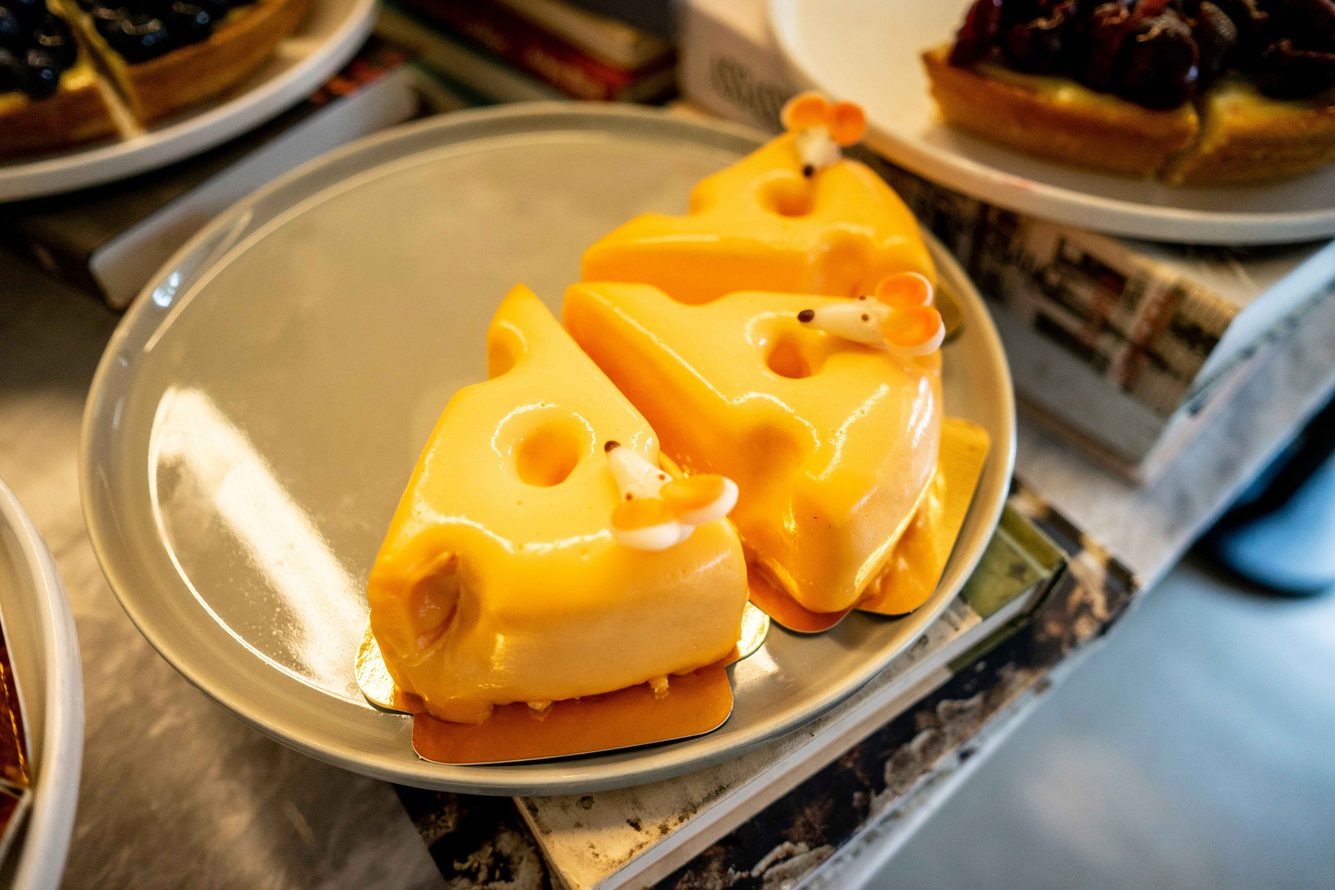
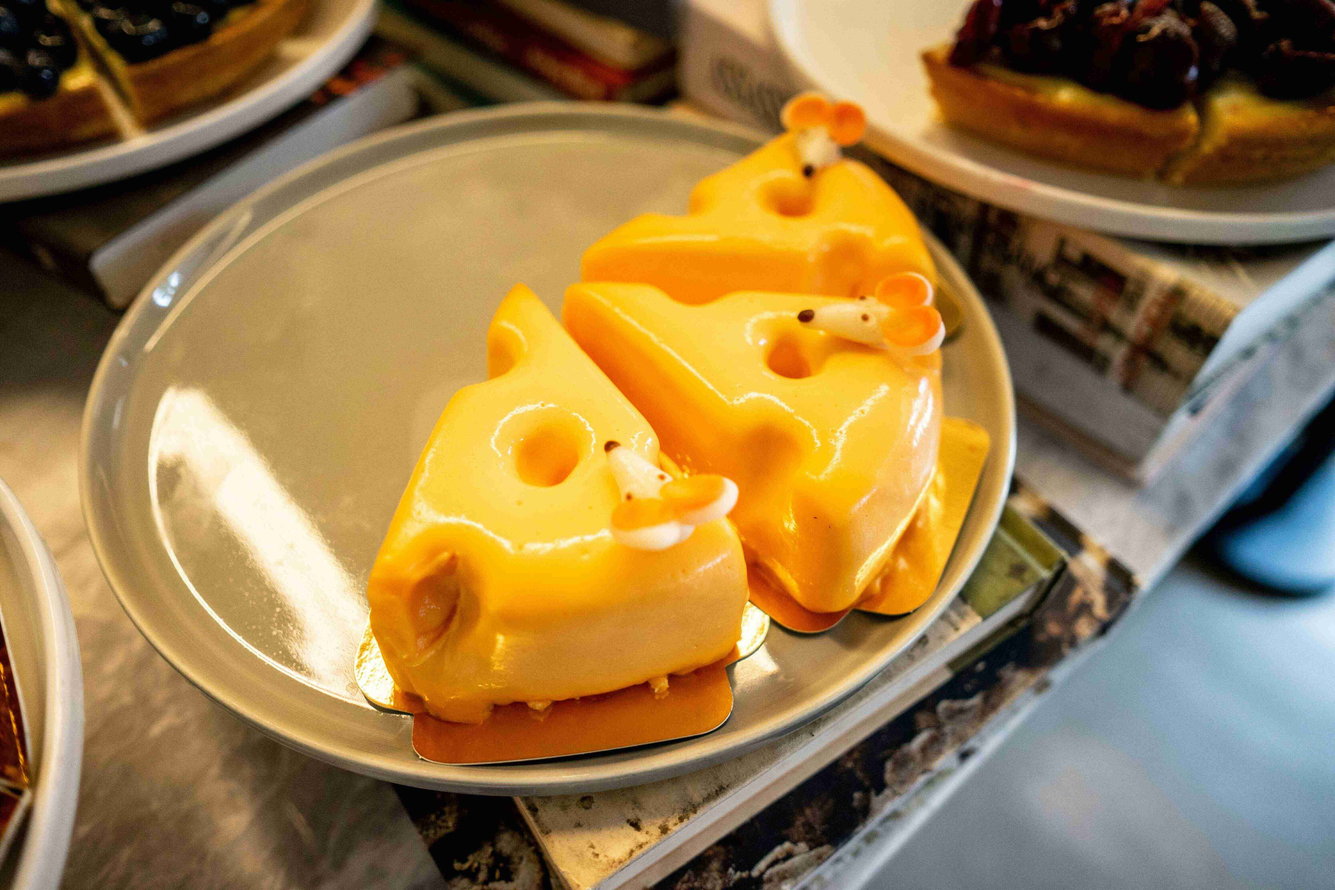
Make nav button works, and compressing the image asset

diff --git a/src/component/Navbar.jsx b/src/component/Navbar.jsx
@@ -1,6 +1,7 @@
 import { useState, useEffect } from "react";
 
-export function Navbar() {
+export function Navbar({navMenuClicked, homeRef, productRef, contactUsRef}) {
+
   const [isOpen, setIsOpen] = useState(false);
   const [isScrolled, setIsScrolled] = useState(false);
 
@@ -15,44 +16,41 @@ export function Navbar() {
 
   return (
     <nav
-      className={`w-full fixed top-0 left-0 z-50 transition-all duration-300 ${
-        isScrolled ? "bg-white shadow-md" : "bg-transparent"
-      }`}
+      className={`w-full fixed top-0 left-0 z-50 transition-all duration-300 ${isScrolled ? "bg-white shadow-md" : "bg-transparent"
+        }`}
     >
       <div className="max-w-7xl mx-auto flex items-center justify-between h-20 px-4">
         {/* Logo */}
         <a
-          className={`font-bold text-[25px] cursor-pointer ${
-            isScrolled ? "text-jetblack" : "text-primaryWhite"
-          }`}
+          className={`font-bold text-[25px] cursor-pointer ${isScrolled ? "text-jetblack" : "text-primaryWhite"
+            }`}
+          href="/"
         >
           Cheesant.
         </a>
 
         {/* Desktop Menu */}
         <div
-          className={`hidden md:flex font-bold items-center ${
-            isScrolled ? "text-jetblack" : "text-primaryWhite"
-          }`}
+          className={`hidden md:flex font-bold items-center ${isScrolled ? "text-jetblack" : "text-primaryWhite"
+            }`}
         >
-          <a href="" className="mx-3">
+          <button onClick={() => {navMenuClicked(homeRef)}} className="mx-3 cursor-pointer">
             Home
-          </a>
-          <a href="" className="mx-3">
+          </button>
+          <button onClick={() => navMenuClicked(productRef)} className="mx-3 cursor-pointer">
             Product
-          </a>
-          <a
-            href=""
-            className={`mx-3 border px-5 py-2 rounded-full transition duration-200
-              ${
-                isScrolled
-                  ? "border-jetblack hover:bg-jetblack hover:text-white"
-                  : "border-primaryWhite hover:bg-primaryWhite hover:text-jetblack"
+          </button>
+          <button
+            onClick={() => navMenuClicked(contactUsRef)}
+            className={`mx-3 border px-5 py-2 rounded-full transition duration-200 cursor-pointer
+              ${isScrolled
+                ? "border-jetblack hover:bg-jetblack hover:text-white"
+                : "border-primaryWhite hover:bg-primaryWhite hover:text-jetblack"
               }
             `}
           >
             Contact Us
-          </a>
+          </button>
         </div>
 
         {/* Mobile Hamburger */}
@@ -61,54 +59,59 @@ export function Navbar() {
           onClick={() => setIsOpen(!isOpen)}
         >
           <span
-            className={`block w-6 h-0.5 transition-transform duration-300 ${
-              isScrolled
+            className={`block w-6 h-0.5 transition-transform duration-300 ${isScrolled
                 ? isOpen
                   ? "bg-jetblack rotate-45 translate-y-1.5"
                   : "bg-jetblack"
                 : isOpen
-                ? "bg-jetblack rotate-45 translate-y-1.5"
-                : "bg-primaryWhite"
-            }`}
+                  ? "bg-jetblack rotate-45 translate-y-1.5"
+                  : "bg-primaryWhite"
+              }`}
           ></span>
           <span
-            className={`block w-6 h-0.5 transition-opacity duration-300 ${
-              isOpen ? "opacity-0" : isScrolled ? "bg-jetblack" : "bg-primaryWhite"
-            }`}
+            className={`block w-6 h-0.5 transition-opacity duration-300 ${isOpen ? "opacity-0" : isScrolled ? "bg-jetblack" : "bg-primaryWhite"
+              }`}
           ></span>
           <span
-            className={`block w-6 h-0.5 transition-transform duration-300 ${
-              isScrolled
+            className={`block w-6 h-0.5 transition-transform duration-300 ${isScrolled
                 ? isOpen
                   ? "bg-jetblack -rotate-45 -translate-y-1.5"
                   : "bg-jetblack"
                 : isOpen
-                ? "bg-jetblack -rotate-45 -translate-y-1.5"
-                : "bg-primaryWhite"
-            }`}
+                  ? "bg-jetblack -rotate-45 -translate-y-1.5"
+                  : "bg-primaryWhite"
+              }`}
           ></span>
         </button>
       </div>
 
       {/* Mobile Menu */}
       <div
-        className={`fixed inset-0 bg-primaryWhite flex flex-col items-center justify-center font-bold text-cocoa transform transition-transform duration-300 ${
-          isOpen ? "translate-x-0" : "translate-x-full"
-        }`}
+        className={`fixed inset-0 bg-primaryWhite flex flex-col items-center justify-center font-bold text-cocoa transform transition-transform duration-300 ${isOpen ? "translate-x-0" : "translate-x-full"
+          }`}
       >
-        <a href="" className="py-4 text-2xl" onClick={() => setIsOpen(false)}>
+        <button  
+        className="py-4 text-2xl cursor-pointer" onClick={() => {
+          setIsOpen(false)
+          navMenuClicked(homeRef)
+          }}>
           Home
-        </a>
-        <a href="" className="py-4 text-2xl" onClick={() => setIsOpen(false)}>
+        </button>
+        <button  className="py-4 text-2xl cursor-pointer" onClick={() => {
+          setIsOpen(false)
+          navMenuClicked(productRef)
+          }}>
           Product
-        </a>
-        <a
-          href=""
-          className="py-2 text-2xl border border-cocoa px-4 rounded-full hover:bg-cocoa hover:text-primaryWhite transition duration-200"
-          onClick={() => setIsOpen(false)}
+        </button>
+        <button
+          className="py-2 text-2xl border border-cocoa px-4 rounded-full hover:bg-cocoa hover:text-primaryWhite transition duration-200 cursor-pointer"
+          onClick={() => {
+            setIsOpen(false)
+            navMenuClicked(contactUsRef)
+          }}
         >
           Contact Us
-        </a>
+        </button>
       </div>
     </nav>
   );

diff --git a/src/component/LandingPage.jsx b/src/component/LandingPage.jsx
@@ -12,17 +12,33 @@ import ctaImage from "../assets/image_cta.png"
 import { FaInstagram as InstagramIcon } from "react-icons/fa6";
 import { FaFacebook as FacebookIcon } from "react-icons/fa";
 import { MdEmail as EmailIcon } from "react-icons/md";
+import { useRef } from 'react'
 
 
 export function LandingPage() {
+
+    const homeRef = useRef(null);
+    const productRef = useRef(null);
+    const contactUsRef = useRef(null);
+
+    function navMenuClicked(ref) {
+        ref.current.scrollIntoView({ behavior: 'smooth' });
+    }
+
     return (
         <div className="font-onest">
 
             <header className="h-[100vh] bg-cover bg-center text-primaryWhite"
-                style={{ backgroundImage: `url('${heroImage}')` }}>
+                style={{ backgroundImage: `url('${heroImage}')` }}
+                ref={homeRef}>
 
                 {/* Navbar di dalam header */}
-                <Navbar />
+                <Navbar
+                    navMenuClicked={navMenuClicked}
+                    homeRef={homeRef}
+                    productRef={productRef}
+                    contactUsRef={contactUsRef} />
+
                 <div className="flex justify-center items-center h-[calc(100vh-5rem)]">
                     <div className="text-center">
                         <motion.h1
@@ -45,8 +61,8 @@ export function LandingPage() {
                         </motion.p>
                     </div>
                 </div>
-
             </header>
+            <div ref={productRef} />
 
             <section>
                 <div className="flex flex-col md:flex-row gap-8 p-12 md:py-40 max-w-300 mx-auto">
@@ -246,12 +262,12 @@ export function LandingPage() {
 
                 </div>
 
-                <motion.div 
-                initial={{ opacity: 0, y: 20 }}
-                        whileInView={{ opacity: 1, y: 0 }}
-                        transition={{ duration: 0.7, delay: 2 }}
-                        viewport={{ once: true, amount: 0.2 }}
-                className="max-w-3xl mx-auto text-center mt-12 text-cocoa">
+                <motion.div
+                    initial={{ opacity: 0, y: 20 }}
+                    whileInView={{ opacity: 1, y: 0 }}
+                    transition={{ duration: 0.7, delay: 1.3 }}
+                    viewport={{ once: true, amount: 0.2 }}
+                    className="max-w-3xl mx-auto text-center mt-12 text-cocoa">
                     <h2 className="text-2xl md:text-3xl font-semibold text-brown-900">
                         Our Cheese Maker Once Said
                     </h2>
@@ -261,7 +277,7 @@ export function LandingPage() {
                 </motion.div>
             </section>
 
-            <footer className='bg-jetblack'>
+            <footer className='bg-jetblack' ref={contactUsRef}>
                 <div className=' h-100 max-w-300 mx-auto'>
                     <div className='pt-15 px-20'>
                         <div className='mb-5'>
